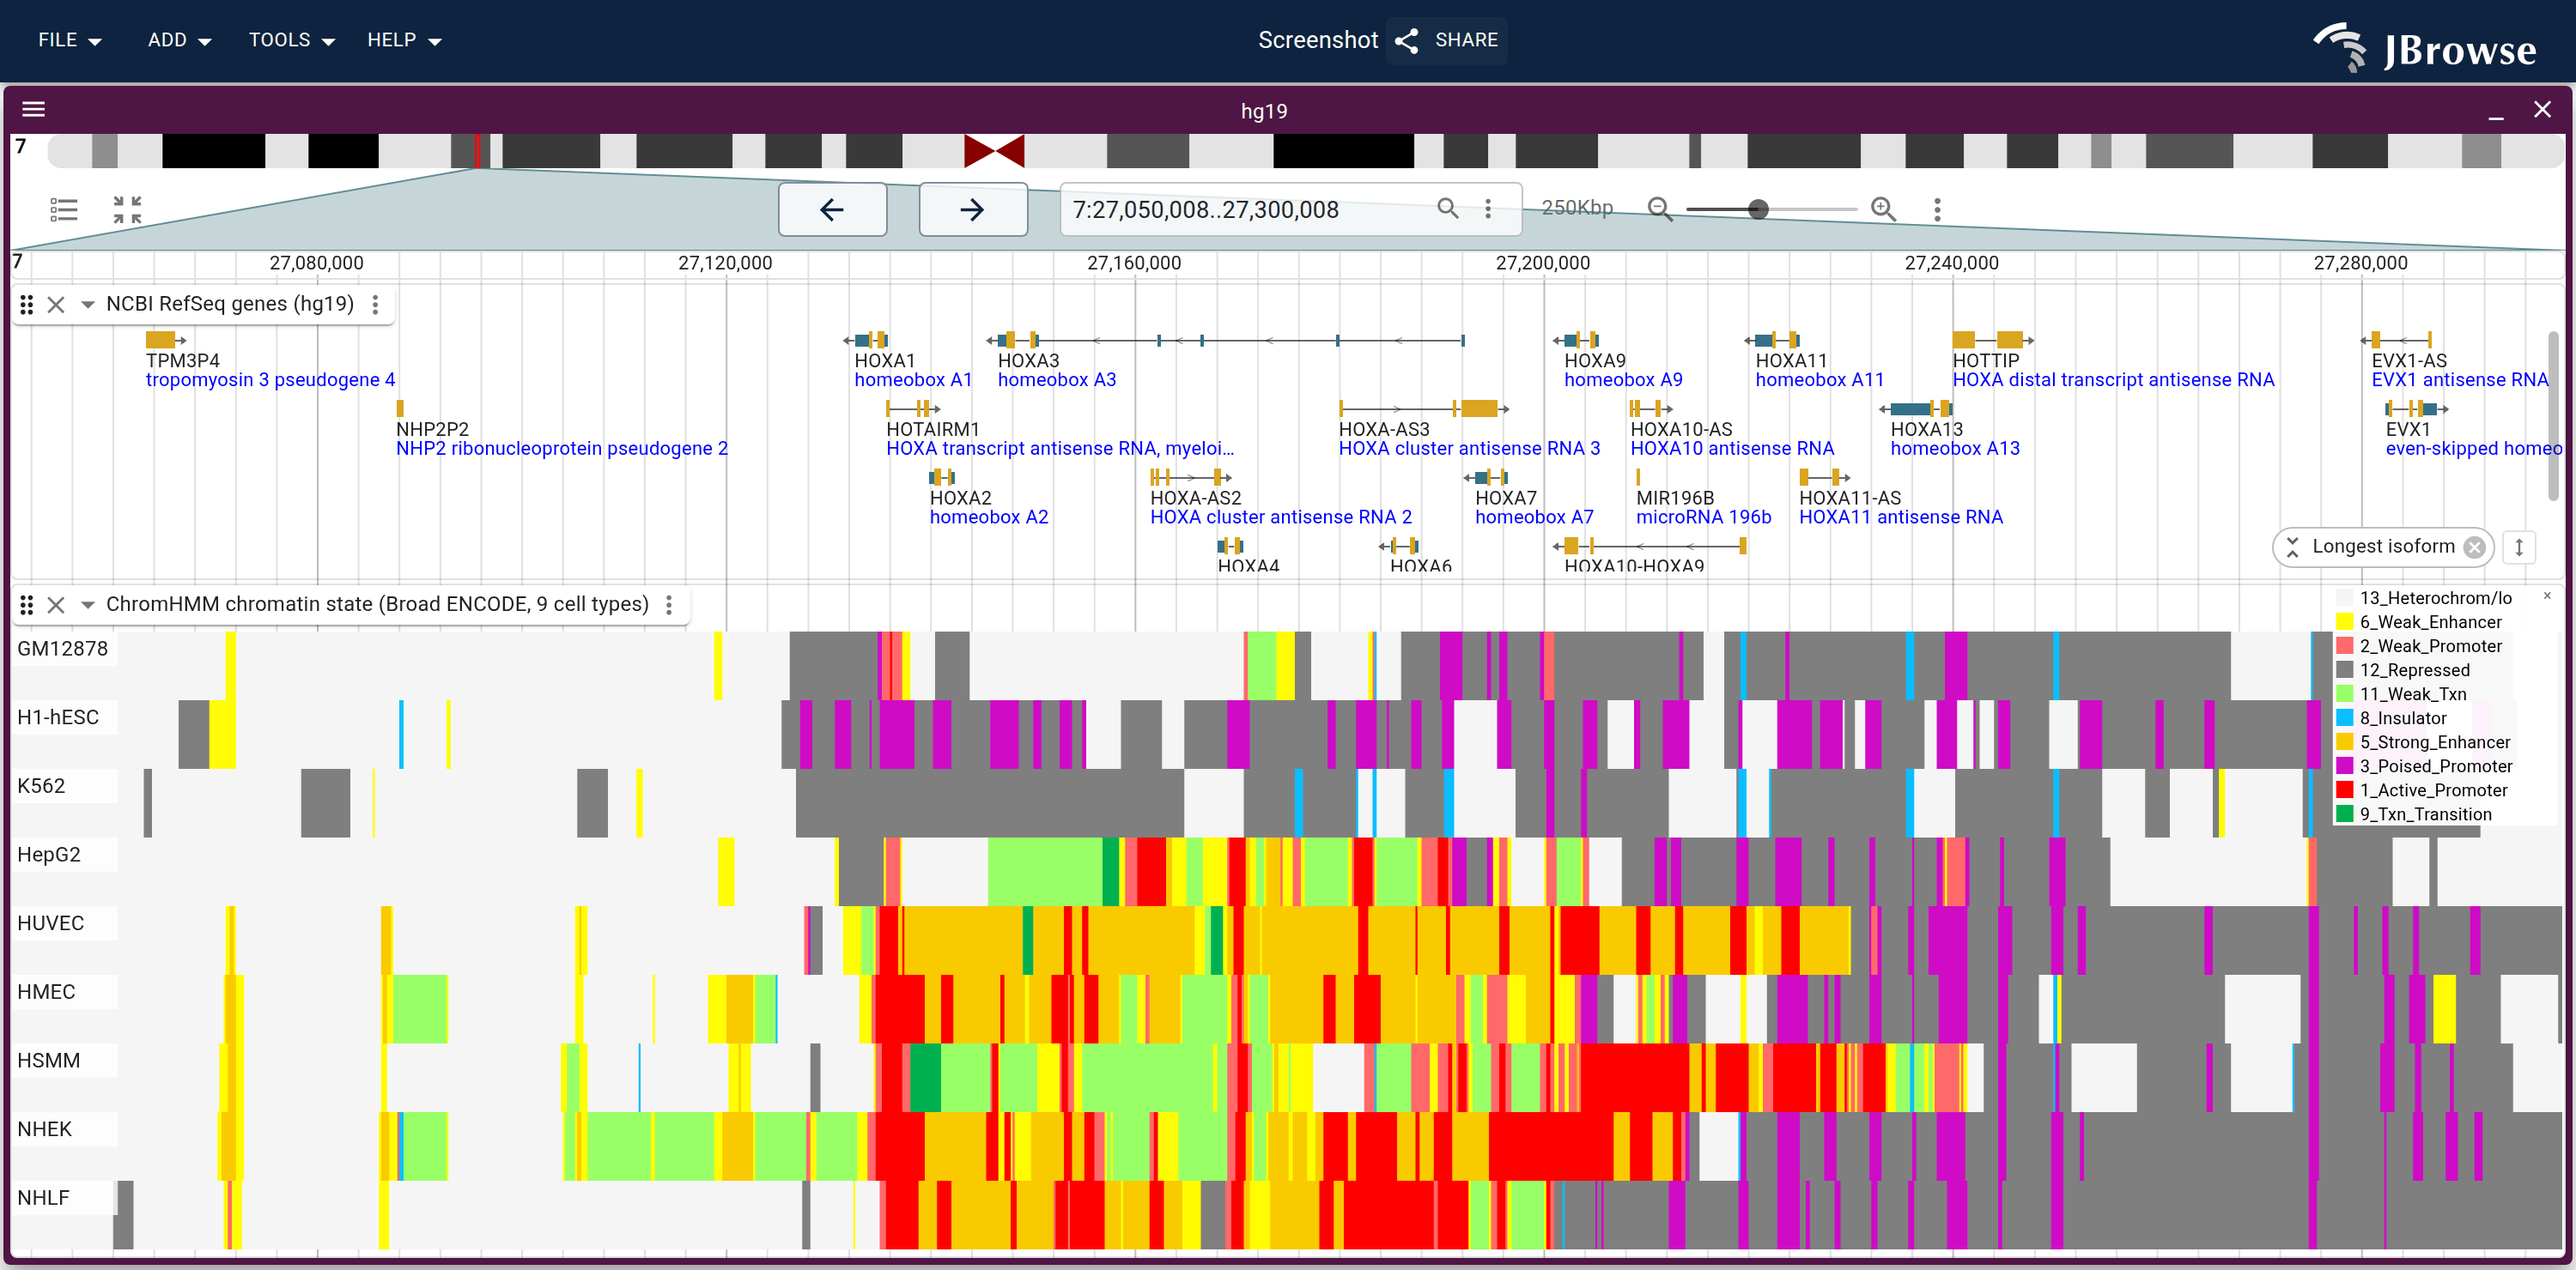
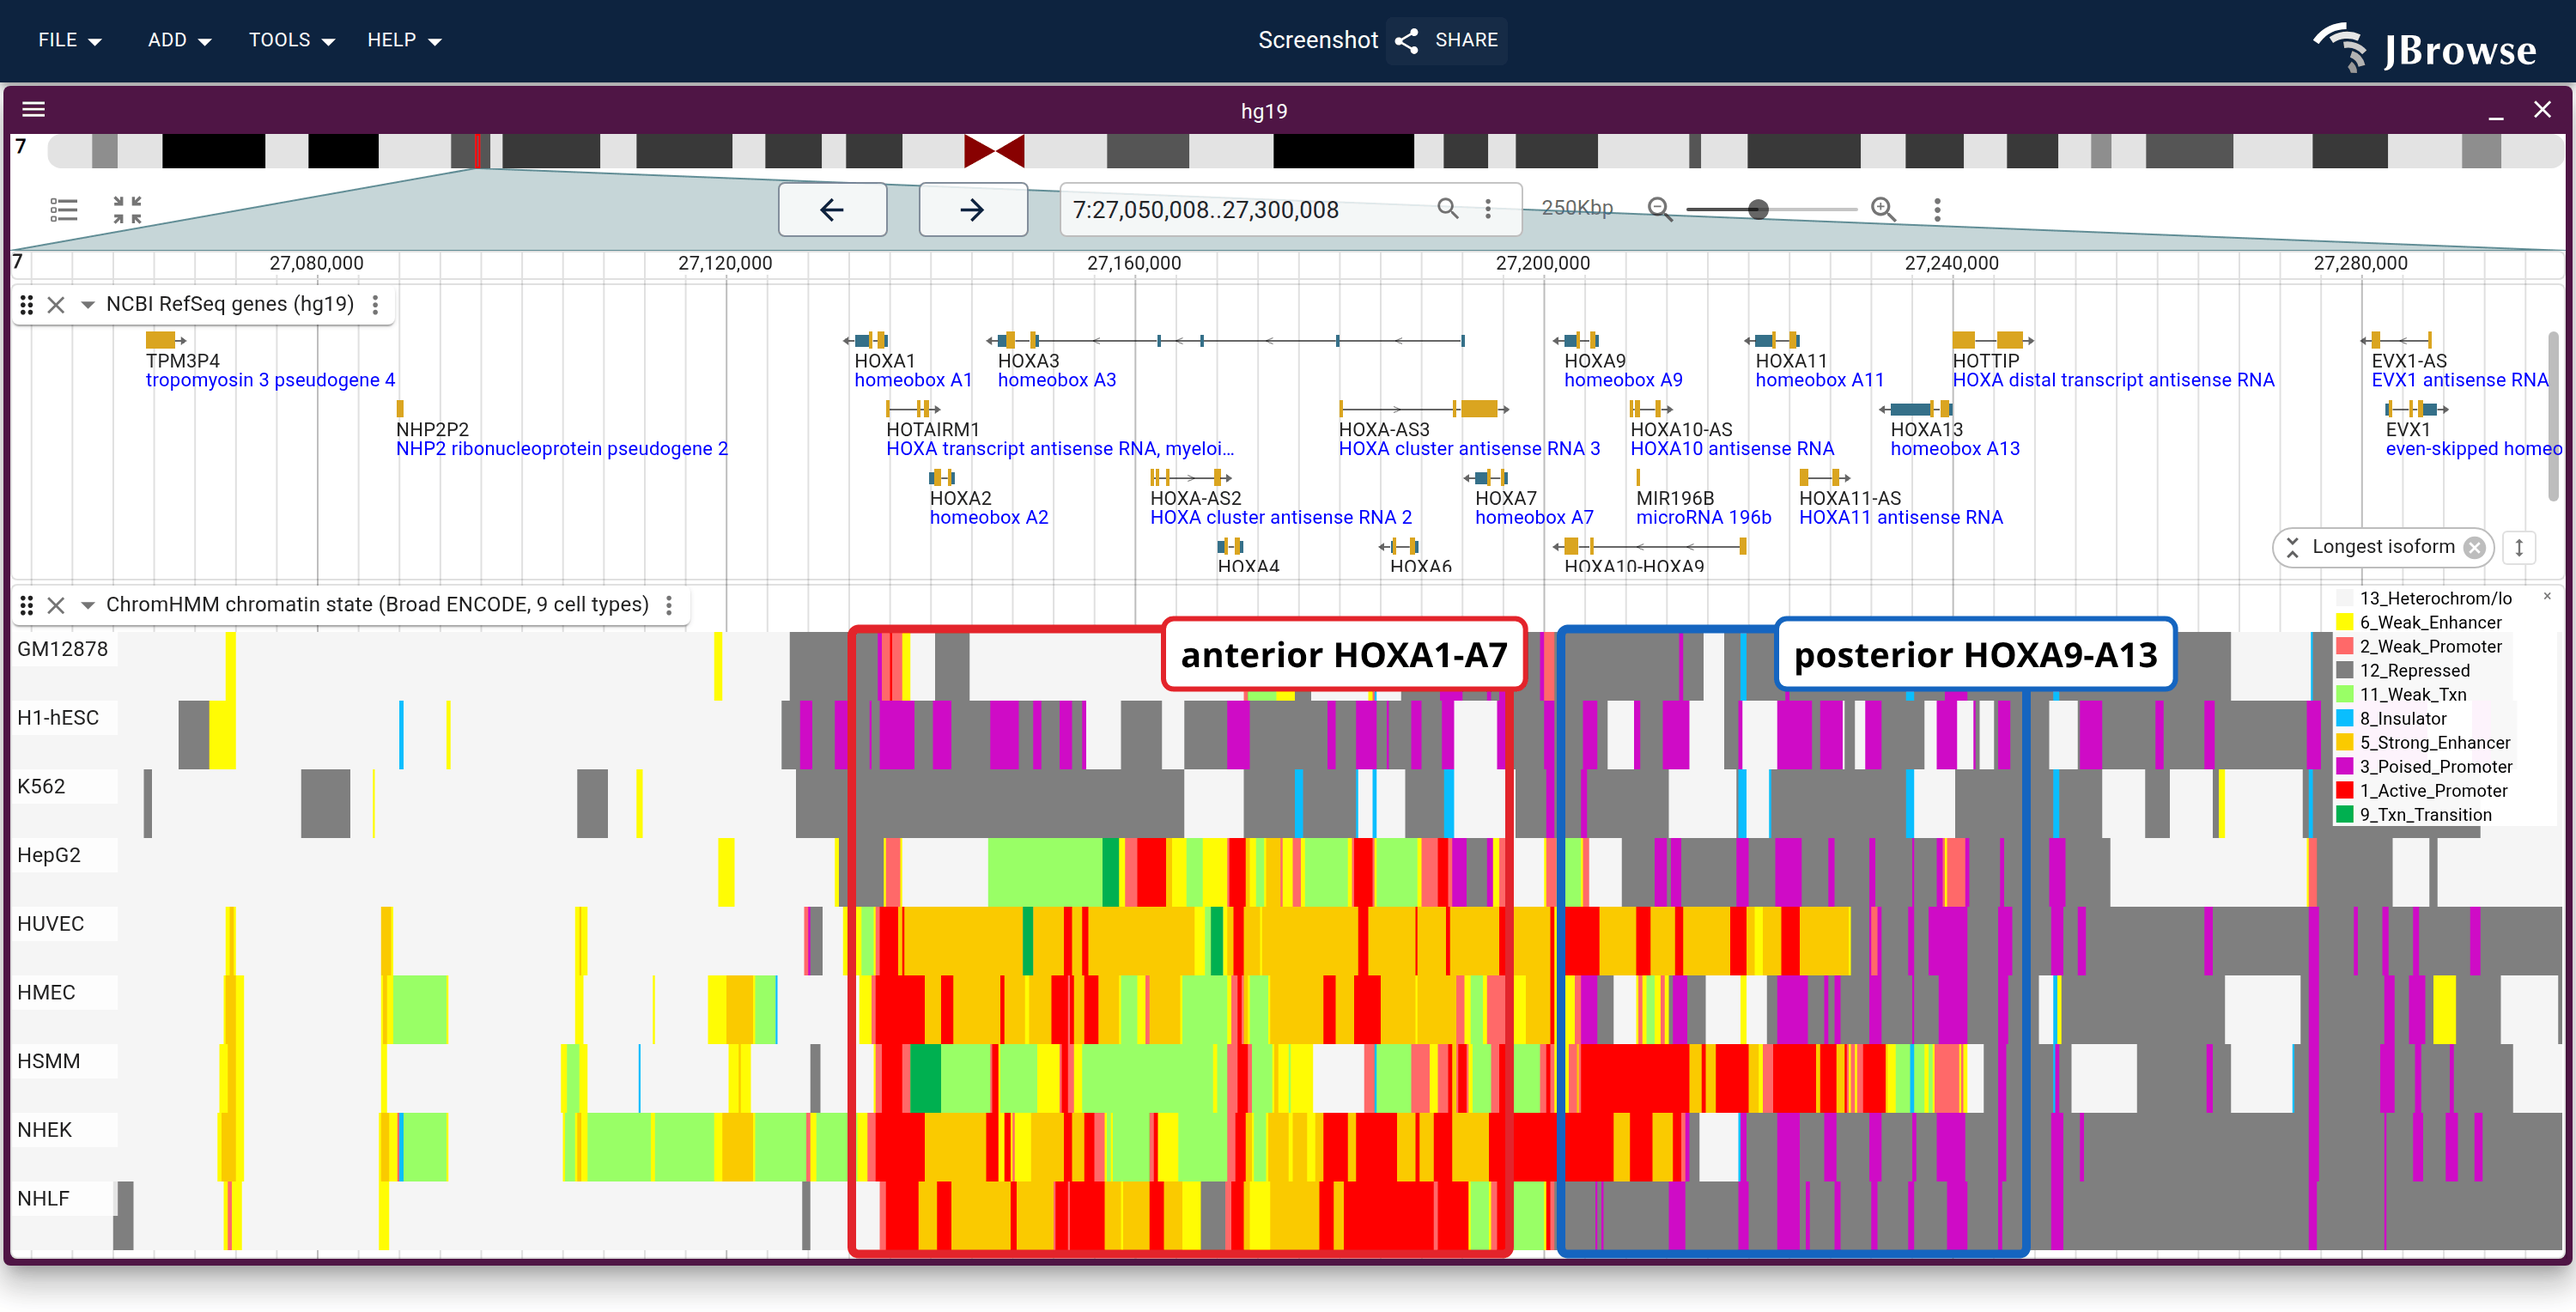
docs(chromhmm): box the two HOXA domains, and shoot both figures on them
A ChromHMM figure is a wall of color, and neither of the tutorial's two had an
entry into it. The nine-cell-type one was shot on HOXA but said only that
H1-hESC is Polycomb-repressed while the differentiated lines are active, which
is a claim about how deeply each line was sequenced as much as about what it is.
The 127-epigenome one was shot on a different window entirely
(chr11:5.87-6.78Mb), where the painting is one green transcribed block against
grey — so 127 rows looked like nine rows with more noise, which is the opposite
of what a figure about scaling row count should show.

Both now sit on the same window with the same two boxes, so the two figures
differ only in row count and a reader who learned the boundary in one finds it
again in the other. A HOX cluster is transcribed colinearly: a cell type opens
the stretch matching its own position along the body axis and holds the rest
under Polycomb, and the break falls between HOXA7 and HOXA9 in every row that
has one. That is what makes the split a column across the rows rather than nine
unrelated patterns, and it is what the boxes and the captions now say.

The 127-row figure is clustered rather than in `rowOrder`, because at a
pixel-high row nothing carries a label and where the display puts a row is the
only thing that can group the epigenomes. `showTree: false`: a dendrogram over
5px rows whose labels are all sub-pixel is decoration, and it is also the only
[…]

diff --git a/website/scripts/specs/ui.ts b/website/scripts/specs/ui.ts
@@ -1863,31 +1863,87 @@ export const uiSpecs: ScreenshotSpec[] = [
     mode: 'url',
     name: 'chromhmm',
     // Roadmap 127-epigenome ChromHMM chromatin states as a multi-row feature
-    // heatmap over a ~900kb window on chr11, with the RefSeq gene track above
-    // for context. Rebuilt from the old server-side share link as a
-    // self-contained sessionSpec so the figure and its gallery live link come
-    // from this one spec.
+    // heatmap, on the SAME HOXA window as chromhmm_hoxa_9celltype below so the
+    // two figures differ only in row count. The window it used to be shot on
+    // (chr11:5.87-6.78Mb) had no structure the extra rows revealed: it read as
+    // one green transcribed block against grey, so 127 rows looked like nine
+    // rows with more noise, which is the opposite of the point.
+    //
+    // HOXA separates the epigenomes into blocks, because the anterior half of
+    // the cluster is active only in lineages with a matching positional
+    // identity, and it is the same column boundary in every one of them.
     url: lgvSession(DEMO_CONFIG, {
       assembly: 'hg19',
-      loc: 'chr11:5,875,140-6,784,158',
+      loc: 'chr7:27,100,000-27,280,000',
       tracks: [
         {
           trackId: 'ncbi_gff_hg19',
           // descriptions add noise on the context gene track; names suffice here
           type: 'LinearBasicDisplay',
           showDescriptions: false,
+          height: 120,
         },
         {
           trackId: 'roadmap_chromhmm_multirow_hg19',
           type: 'LinearMultiRowFeatureDisplay',
-          height: 480,
+          // clustered, not in `rowOrder`: at 127 rows a pixel-high row carries
+          // no label, so the only thing that can group the epigenomes is where
+          // the display puts them. Unclustered the same window is 127 rows of
+          // scattered red with no block in it.
+          runClustering: true,
+          // the clustered ORDER is what this figure uses; a dendrogram over
+          // 5px rows whose labels are all sub-pixel is decoration. It is also
+          // the only way to keep `StaleTreeHint` off the figure, because three
+          // Roadmap epigenome names carry parentheses and `@gmod/hclust`'s
+          // `toNewick` emits leaf labels unquoted, so those three parse back as
+          // a different name and `treeDescribesRows` (correctly) refuses to
+          // position the tree. Fixing the quoting is the real answer.
+          showTree: false,
+          height: 700,
         },
       ],
     }),
+    // the same two domains boxed on the same coordinates as the nine-row figure,
+    // so the boundary a reader learned there is the one they find again here
+    annotations: [
+      {
+        type: 'box',
+        anchor: {
+          track: 'roadmap_chromhmm_multirow_hg19',
+          locus: 'chr7:27,132,613-27,196,294',
+        },
+        pad: 2,
+      },
+      {
+        type: 'box',
+        anchor: {
+          track: 'roadmap_chromhmm_multirow_hg19',
+          locus: 'chr7:27,202,056-27,246,878',
+        },
+        pad: 2,
+        color: '#1565c0',
+      },
+    ],
+    // clustering 127 rows is real WASM compute, and a settle long enough to
+    // cover it on a slow runner is one that is wrong on a fast one — a 15s
+    // settle shot the run mid-cluster, chip and all. So wait on the run's own
+    // progress chip clearing, which the autorun's `finally` does. The short
+    // delay ahead of it is only to let the `delay: 500` autorun fire, not a
+    // guess at how long the cluster takes: waiting for `hidden` on a chip that
+    // has not gone up yet passes instantly.
+    actions: [
+      { type: 'delay', ms: 2000 },
+      {
+        type: 'waitForSelector',
+        selector: '[data-testid="progress-chip"]',
+        hidden: true,
+        timeout: 180000,
+      },
+    ],
     readyText: 'ChromHMM',
-    readyTimeout: 60000,
-    settleMs: 8000,
-    viewportHeight: 700,
+    readyTimeout: 120000,
+    settleMs: 6000,
+    viewportHeight: 1060,
   },
 
   // The nine-cell-type Broad ENCODE track at the HOXA cluster, which is the
@@ -1898,9 +1954,18 @@ export const uiSpecs: ScreenshotSpec[] = [
   //
   // HOXA rather than a single promoter: at nine rows each state block is thick
   // enough to read as a color, and the cluster separates the cell types by what
-  // they are rather than by how deeply they were sequenced. H1-hESC holds the
-  // whole cluster Polycomb-repressed while the differentiated lines carry active
-  // promoter and transcription over the genes each of them uses.
+  // they are rather than by how deeply they were sequenced.
+  //
+  // The two boxes are the figure's whole point, and without them the picture is
+  // a wall of color a reader has no entry into. A HOX cluster is transcribed
+  // colinearly, so a cell type opens the part of it matching its own positional
+  // identity and leaves the rest under Polycomb; the break falls between HOXA7
+  // and HOXA9 in every row that has one, which is what makes it a column in the
+  // painting rather than nine unrelated patterns. Boxing the two domains says
+  // where to look; the caption says what the split means.
+  //
+  // Both are anchored to the track and a locus, so they stay on the genes when
+  // the window, the track height or the viewport width moves.
   {
     mode: 'url',
     name: 'chromhmm_hoxa_9celltype',
@@ -1925,10 +1990,56 @@ export const uiSpecs: ScreenshotSpec[] = [
         },
       ],
     }),
+    annotations: [
+      // HOXA1 txStart to HOXA7 txEnd, hg19 refGene
+      {
+        type: 'box',
+        anchor: {
+          track: 'broad_chromhmm_multirow_hg19',
+          locus: 'chr7:27,132,613-27,196,294',
+        },
+        pad: 2,
+      },
+      // HOXA9 txStart to HOTTIP txEnd, hg19 refGene
+      {
+        type: 'box',
+        anchor: {
+          track: 'broad_chromhmm_multirow_hg19',
+          locus: 'chr7:27,202,056-27,246,878',
+        },
+        pad: 2,
+        color: '#1565c0',
+      },
+      {
+        type: 'text',
+        text: 'anterior HOXA1-A7',
+        fontSize: 20,
+        anchor: {
+          track: 'broad_chromhmm_multirow_hg19',
+          locus: 'chr7:27,132,613-27,196,294',
+          fracY: 0,
+        },
+        dy: 20,
+      },
+      {
+        type: 'text',
+        text: 'posterior HOXA9-A13',
+        fontSize: 20,
+        color: '#1565c0',
+        anchor: {
+          track: 'broad_chromhmm_multirow_hg19',
+          locus: 'chr7:27,202,056-27,246,878',
+          fracY: 0,
+        },
+        dy: 20,
+      },
+    ],
     readyText: 'ChromHMM',
     readyTimeout: 60000,
     settleMs: 8000,
-    viewportHeight: 740,
+    // 740 put the viewport's own bottom edge on the boxes' bottom stroke, which
+    // read as the painting continuing past the frame
+    viewportHeight: 764,
   },
 
   // The "Display types" submenu, with the multi-row display boxed: the

diff --git a/website/docs/tutorials/chromhmm.md b/website/docs/tutorials/chromhmm.md
@@ -34,7 +34,15 @@ instead we merge them into a single file with an extra `cellType` column and let
 the multi-row feature display split that one track back into a labeled sub-row
 per cell type. Every row shares one config, one adapter, and one fetch.
 
-<Figure src="/img/chromhmm_hoxa_9celltype.png" caption="The nine UCSC ENCODE Broad epigenomes over the HOXA cluster as a single multi-row track, one row per cell type, with hg19 RefSeq genes above. H1-hESC holds the cluster in Polycomb-repressed states while the differentiated lines carry active promoter, enhancer and transcription over the genes each of them uses."/>
+<Figure src="/img/chromhmm_hoxa_9celltype.png" caption="The nine UCSC ENCODE Broad epigenomes over the HOXA cluster as a single multi-row track, one row per cell type, with hg19 RefSeq genes above. Boxed: the anterior genes HOXA1 to HOXA7, and the posterior genes HOXA9 to HOXA13. The lines that open the cluster open the anterior box and hold the posterior box repressed, and they break at the same place; H1-hESC, K562 and GM12878 hold both boxes in poised and repressed states throughout."/>
+
+HOXA is the window the build script opens on because the painting there has a
+structure to find rather than just a lot of color. The genes are transcribed in
+the order they sit in, so a cell type opens the stretch matching its own
+position along the body axis and holds the rest under Polycomb. Most of the rows
+that open the cluster at all stop between HOXA7 and HOXA9, which is what makes
+the change read as a column across the rows rather than as nine unrelated
+patterns.
 
 ## What the merged file holds
 
@@ -167,7 +175,7 @@ The same recipe scales to the
 a longer `rowOrder`. Because the multi-row display fetches and lays out one
 file, 127 epigenomes is still one track, one adapter, one fetch, not 127 tracks.
 
-<Figure src="/img/chromhmm.png" caption="The same display at 127 epigenomes instead of nine, over a window on chr11. Each row is one epigenome and the rows are thin enough that the painting reads as a heatmap of state rather than as blocks."/>
+<Figure src="/img/chromhmm.png" caption="The same display at 127 epigenomes instead of nine, over the same HOXA window and the same two boxes, with the rows ordered by Cluster rows by similarity rather than by config. Each row is one epigenome, thin enough that the painting reads as a heatmap of state rather than as blocks. Clustering separates the epigenomes carrying active promoter, enhancer and transcription across the anterior box from those holding both boxes in Polycomb-repressed and bivalent states."/>
 
 At that row count `rowOrder` is 127 lines of config whose only job is to keep
 related tissues adjacent, which is exactly what **Cluster rows by similarity**
